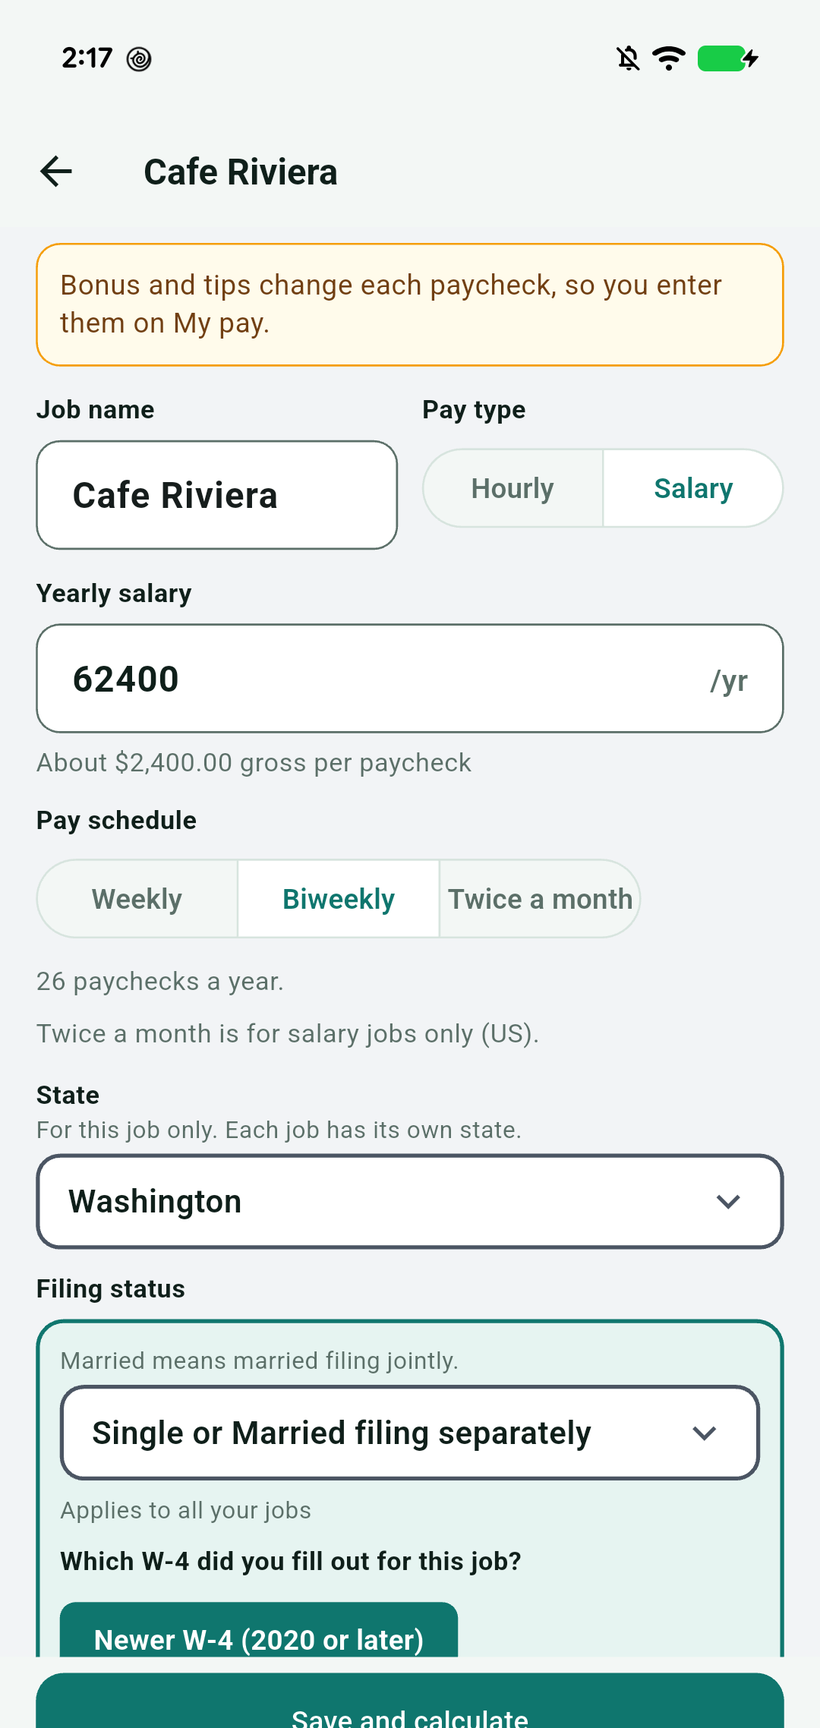
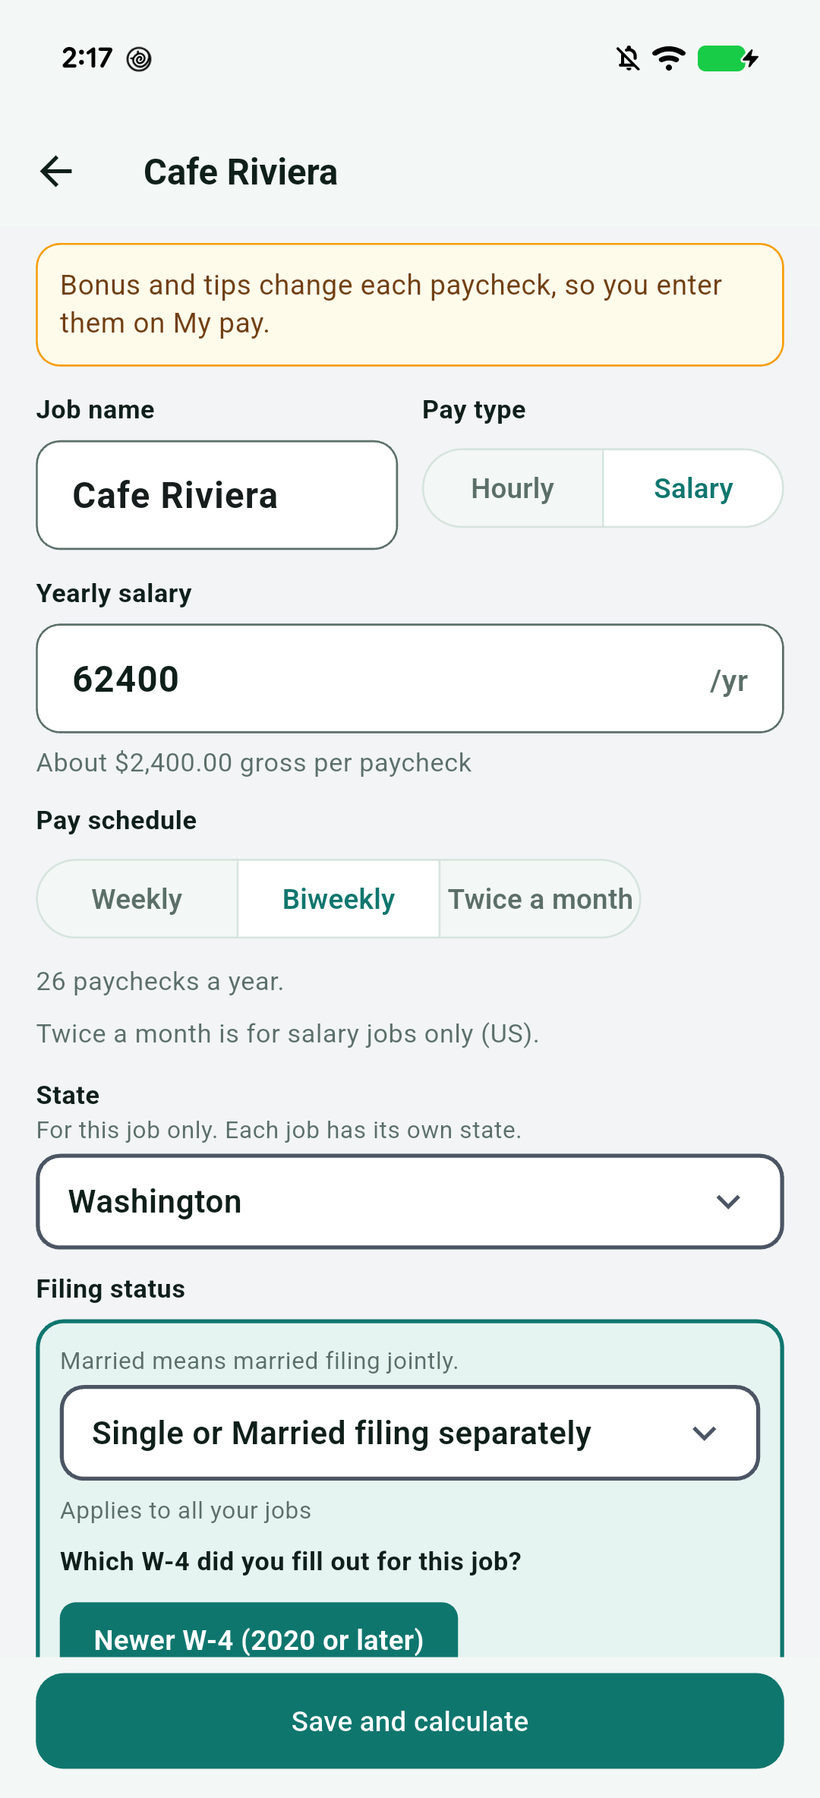
Site: re-crop Features shots to keep bottom-nav labels (820x1798)

diff --git a/assets/apple.css b/assets/apple.css
@@ -426,7 +426,7 @@ button { font-family: inherit; }
 /* show full shot incl. app bottom nav */
 .phone-full .screen img { object-fit: contain; }
 .phone-full .screen {
-  aspect-ratio: 820 / 1728; /* match shot assets so bottom nav isn't cropped */
+  aspect-ratio: 820 / 1798; /* match shot assets so bottom nav isn't cropped */
   border-radius: 34px;
 }
 @media (max-width: 734px) {
